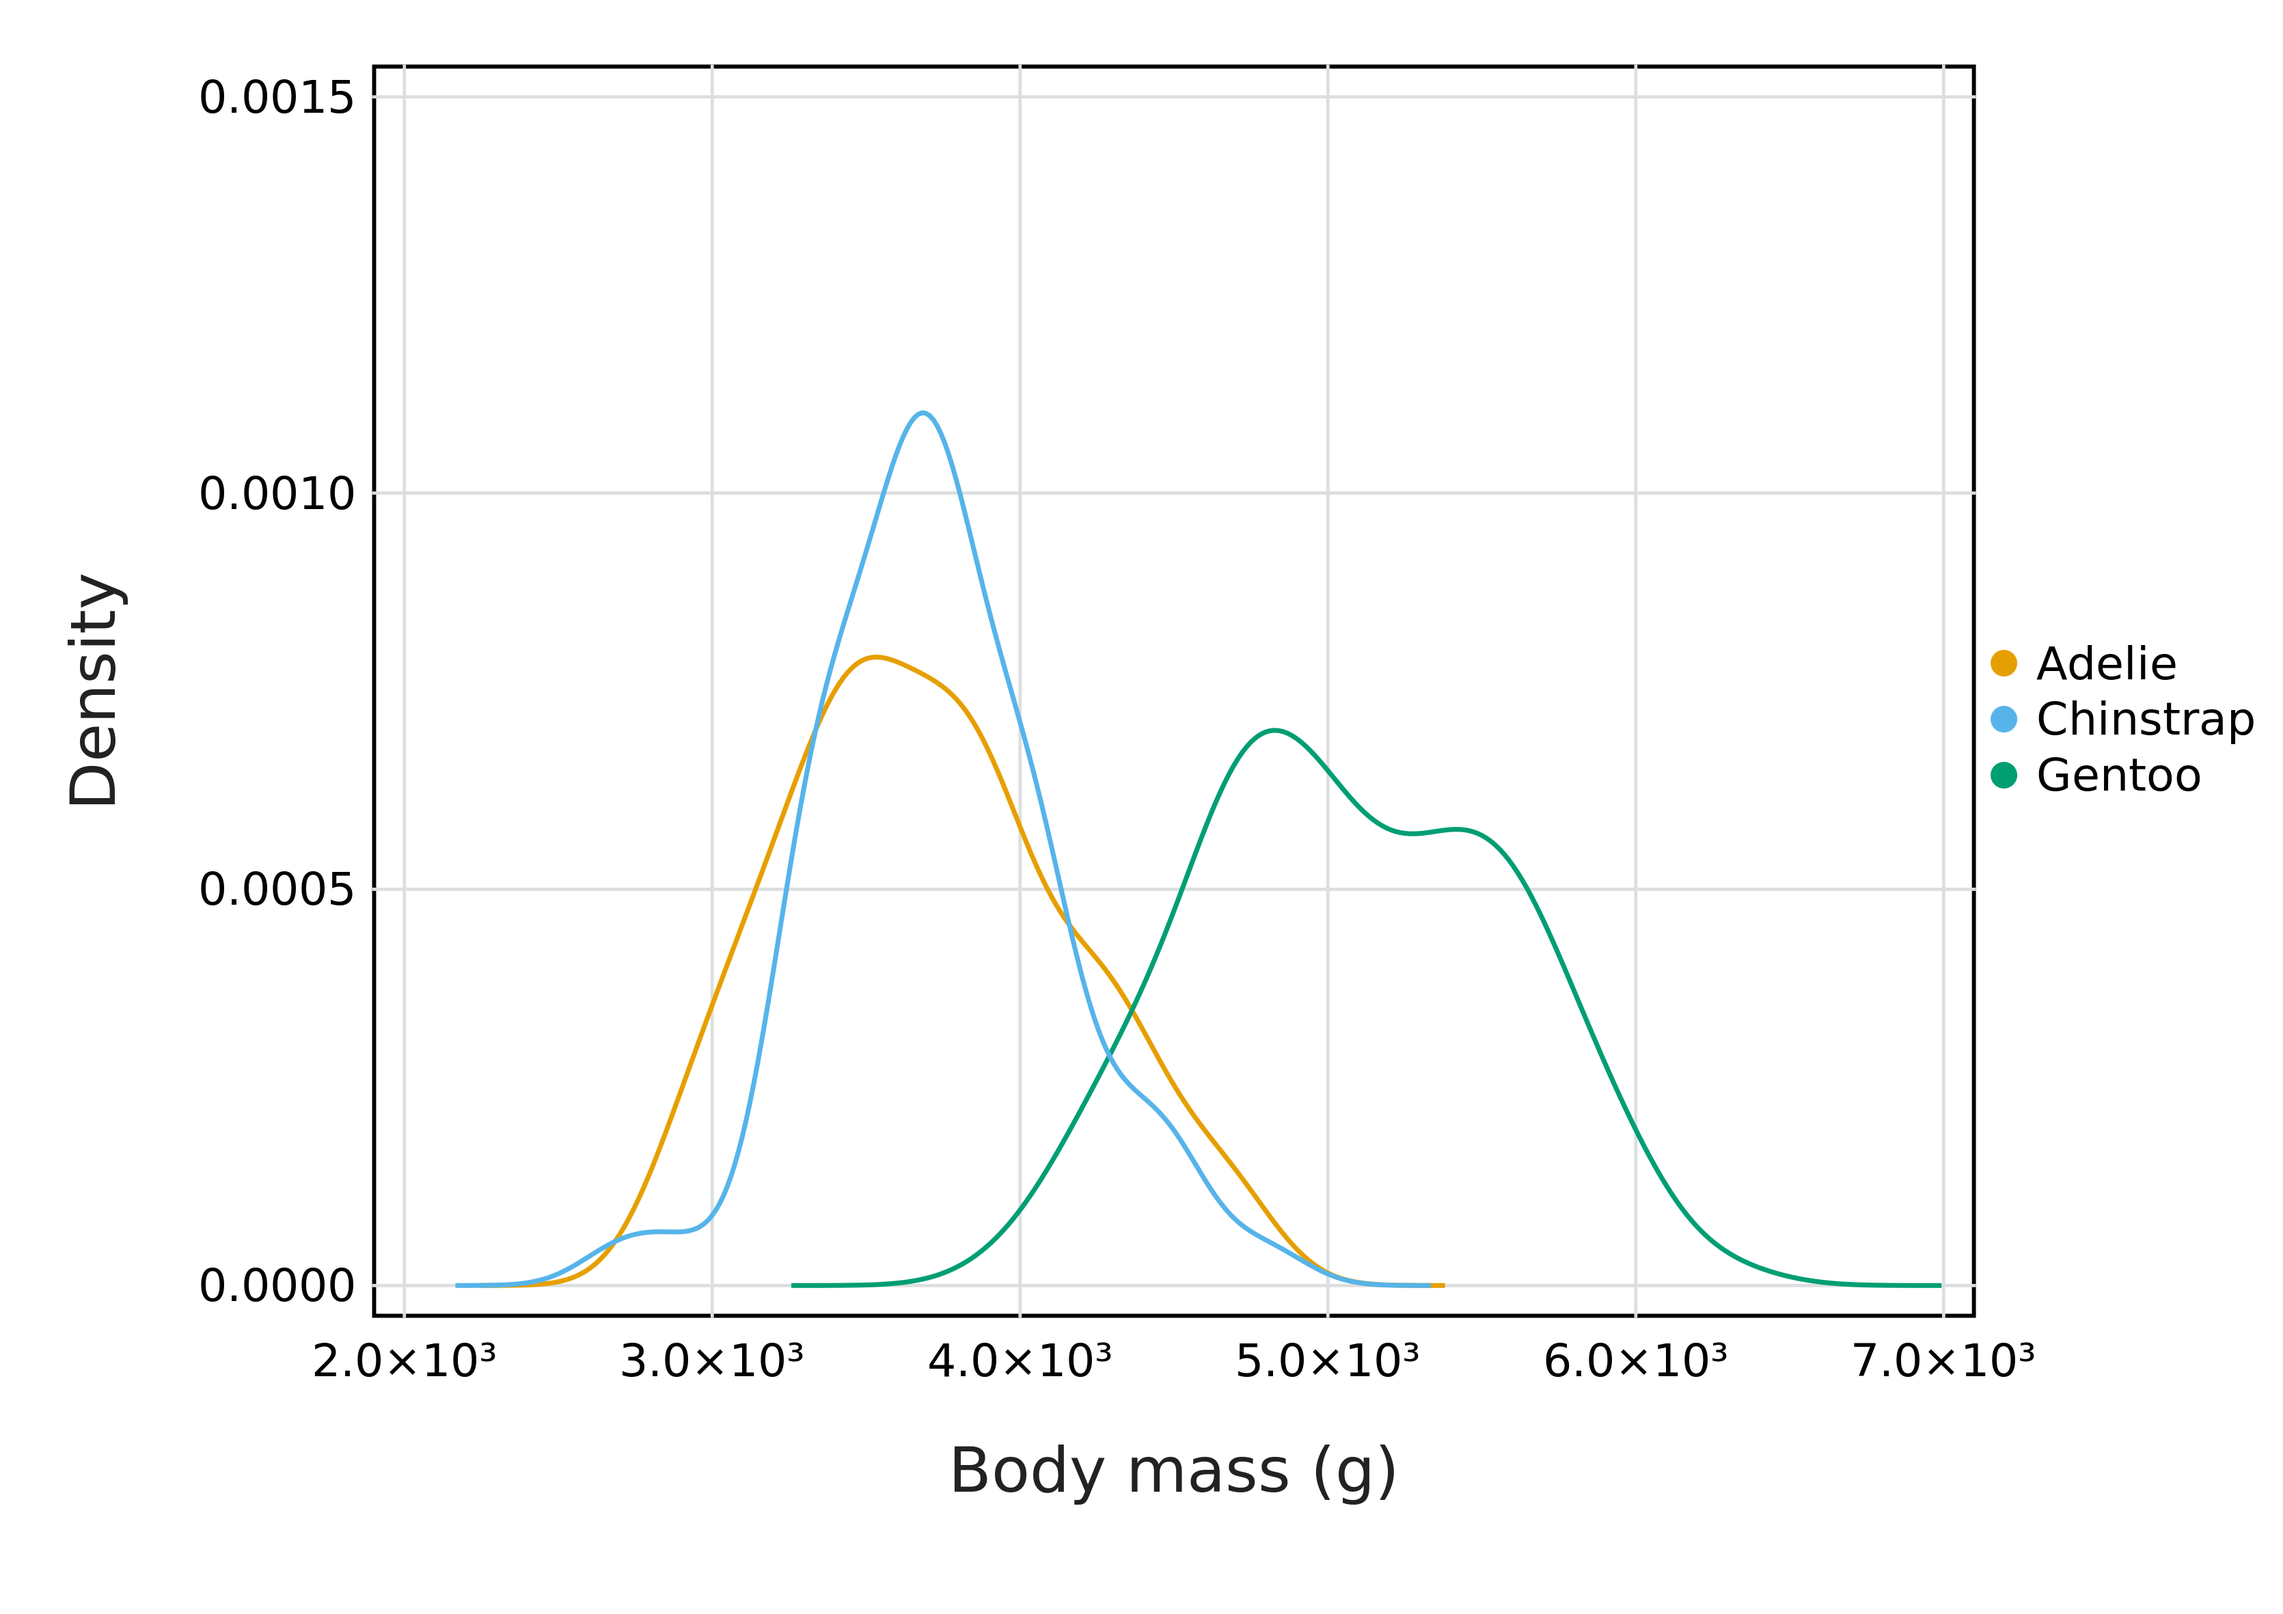
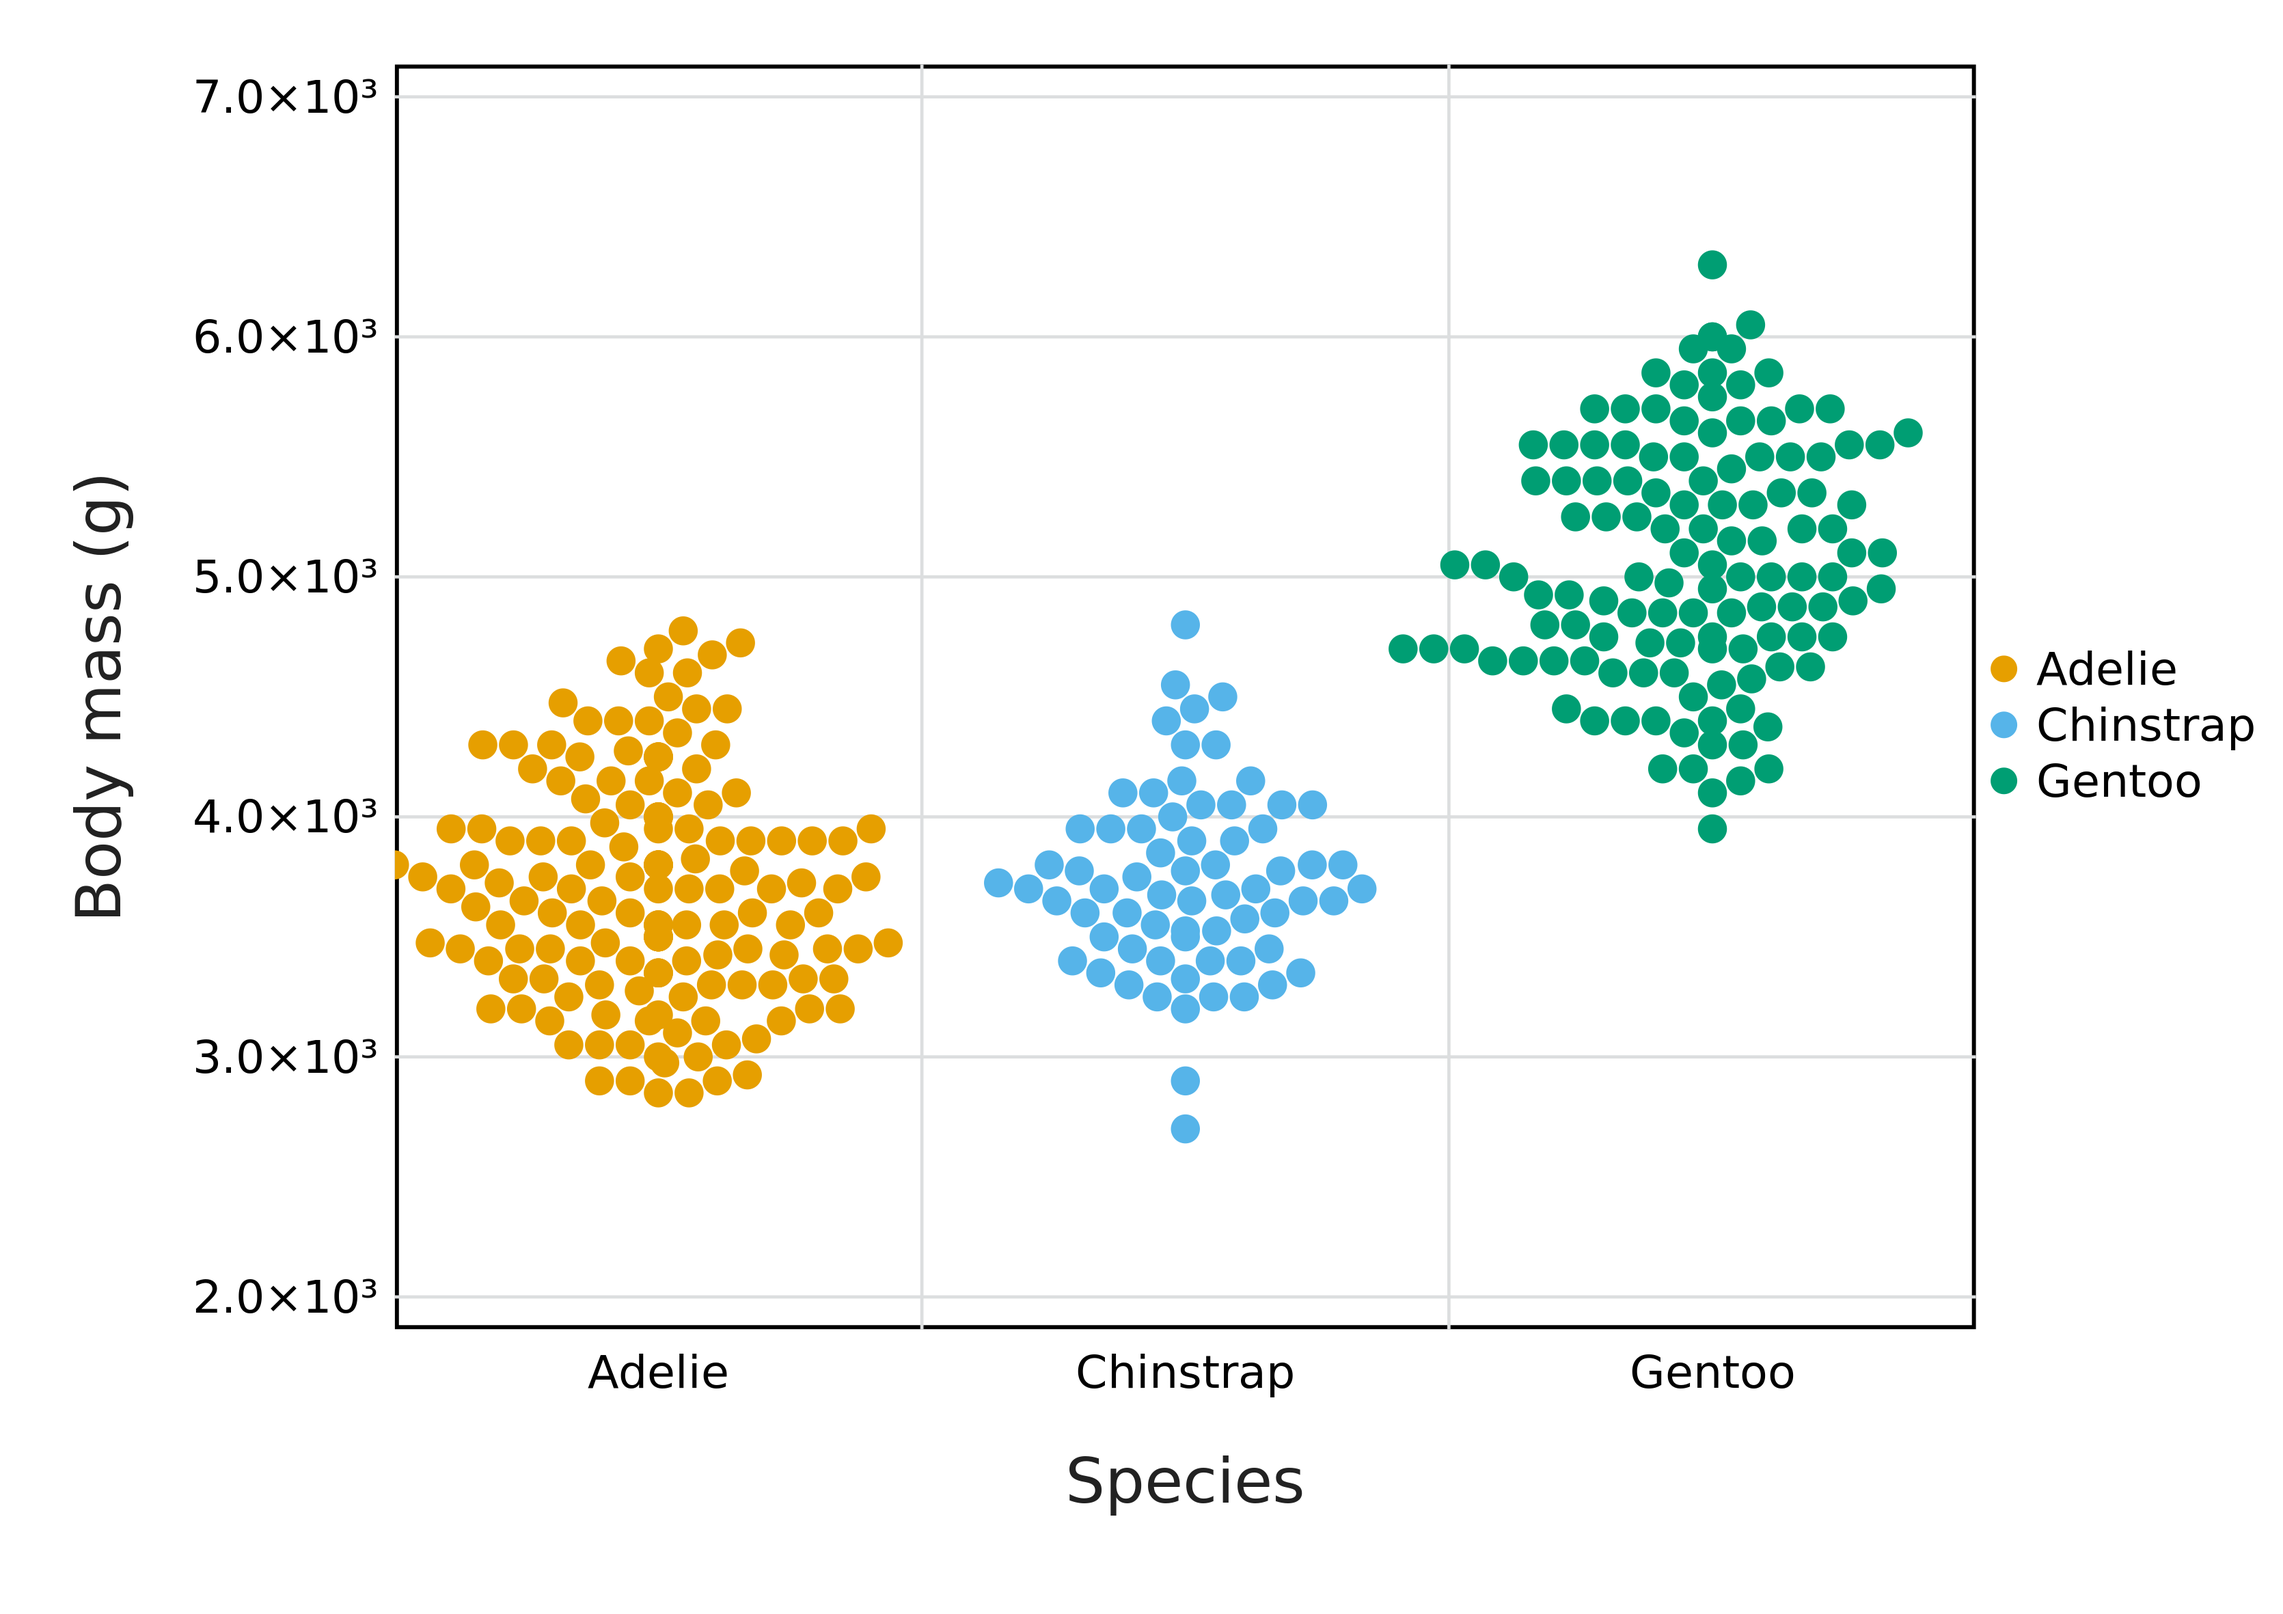
use beeswarm plot instead

diff --git a/docs/00_data.md b/docs/00_data.md
@@ -468,11 +468,12 @@ plot(
         [:species, :bodymass]
         )
     ),
-    x=:bodymass,
+    x=:species,
+    y=:bodymass,
     color=:species,
-    Geom.density,
-    Guide.xlabel("Body mass (g)"),
-    Guide.ylabel("Density")
+    Geom.beeswarm,
+    Guide.xlabel("Species"),
+    Guide.ylabel("Body mass (g)")
 ) |>
 PNG("figures/data_distributions.png", dpi=600)
 ```
@@ -583,10 +584,10 @@ using UUIDs #Part of the standard library
 
 ```
 4-element Vector{UUID}:
- UUID("132eb348-d9a2-4929-91ac-0f198a91f1a6")
- UUID("043d10c7-70c5-4dc2-9f61-15cce50795e8")
- UUID("3ffe6ce7-6312-4803-a374-234a4a7f82ec")
- UUID("3fba0073-ccec-4a19-bebf-a32a16d53581")
+ UUID("f5b1d40a-03ba-451f-9625-171e0831a3cc")
+ UUID("02bf49b5-f9ec-487f-85b2-de81c527dfcb")
+ UUID("58724e62-55a2-42b8-82b2-e1f4deff5065")
+ UUID("3993f9e8-0407-44d9-ad37-af9888c77a05")
 ```
 
 
